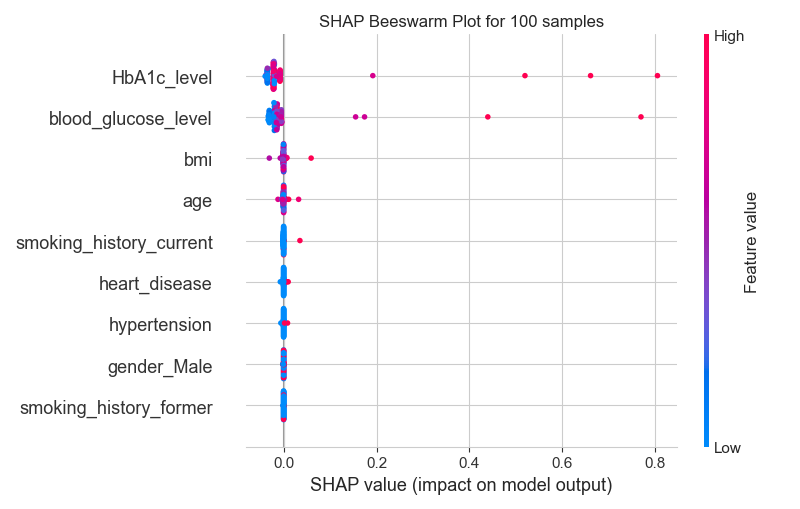
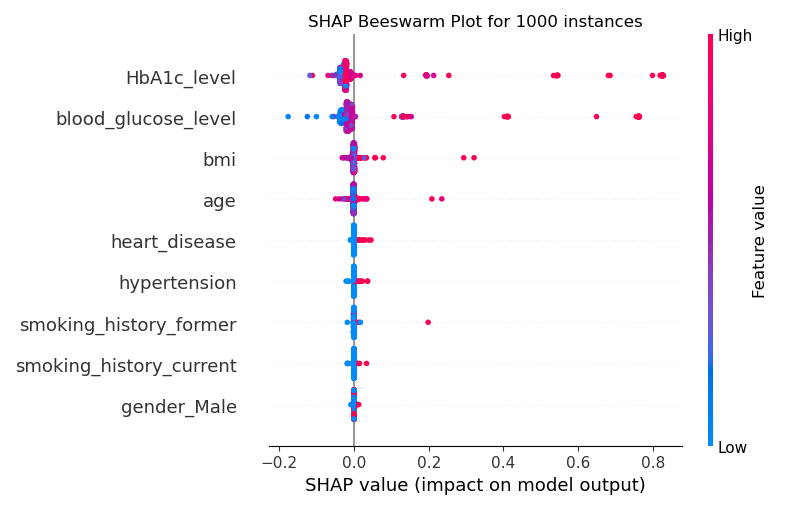
Kernel Shap in Main with plots

diff --git a/main.py b/main.py
@@ -1,3 +1,5 @@
+import random
+
 import numpy as np
 import pandas as pd
 import seaborn as sns
@@ -9,7 +11,6 @@ from xgboost import XGBClassifier
 from sklearn.metrics import accuracy_score, confusion_matrix, ConfusionMatrixDisplay, classification_report
 import time
 
-sns.set_style('whitegrid')
 sns.set_palette('Set2')
 pd.options.plotting.backend = 'plotly'
 
@@ -46,9 +47,9 @@ upper_bound = Q3 + 1.5 * IQR
 df = df[(df['bmi'] >= lower_bound) & (df['bmi'] <= upper_bound)]
 
 # plot the boxplot for BMI
-fig = px.box(df, y='bmi')
-fig.update_layout(title='Box plot of BMI (without outliers)')
-fig.show()
+sns.boxplot(df['bmi'])
+plt.title('Box plot of BMI (without outliers)')
+plt.show()
 
 df['gender'] = df['gender'].astype('category')
 df['smoking_history'] = df['smoking_history'].astype('category')
@@ -84,21 +85,32 @@ ConfusionMatrixDisplay(confusion_matrix(y_test, y_test_repo)).plot()
 plt.show()
 
 # Compute SHAP values and plot summary
-samples = 5000
+samples = 1000
 X_shap = shap.sample(X_train, samples, random_state=random_state)
-mask = shap.maskers.Independent(X_train)
+mask = shap.maskers.Independent(X_train, max_samples=1000)
 explainer = shap.KernelExplainer(model.predict, X_shap, masker=mask)
 
 shap_values = explainer.shap_values(X_shap)
 
 explanation = shap.Explanation(shap_values, data=X_shap,
-                               base_values=explainer.expected_value,
                                feature_names=X_train.columns)
 
 shap.plots.beeswarm(explanation, show=False)
-plt.title(f'SHAP Beeswarm Plot for {samples} samples')
+plt.title(f'SHAP Beeswarm Plot for {samples} instances')
 plt.tight_layout()
 plt.savefig('beeswarm_SHAP.png')
+plt.show()
+
+shap.decision_plot(explainer.expected_value, shap_values,
+                   feature_names=list(X_train.columns), show=False)
+plt.title(f'SHAP Decision Plot for {samples} instances')
+plt.tight_layout()
+plt.savefig('dec_SHAP.png')
+plt.show()
+
+shap.plots.bar(explanation, show=False)
+plt.title(f'SHAP Bar Plot for {samples} instances')
+plt.savefig('bar_SHAP.png')
 plt.show()
 
 # Calculate the elapsed time
